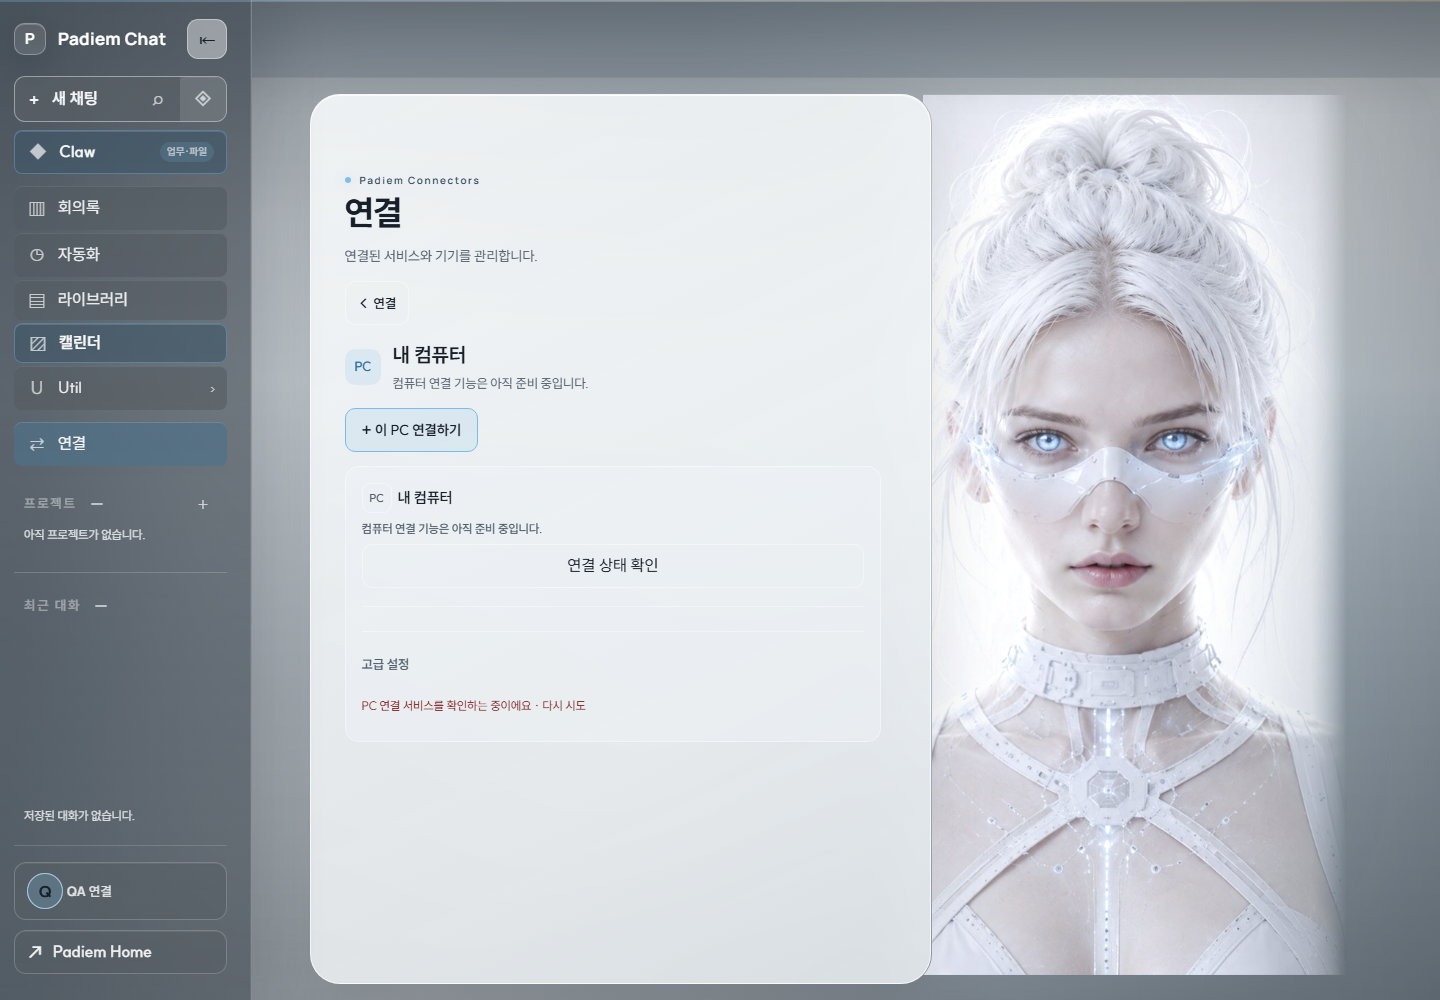
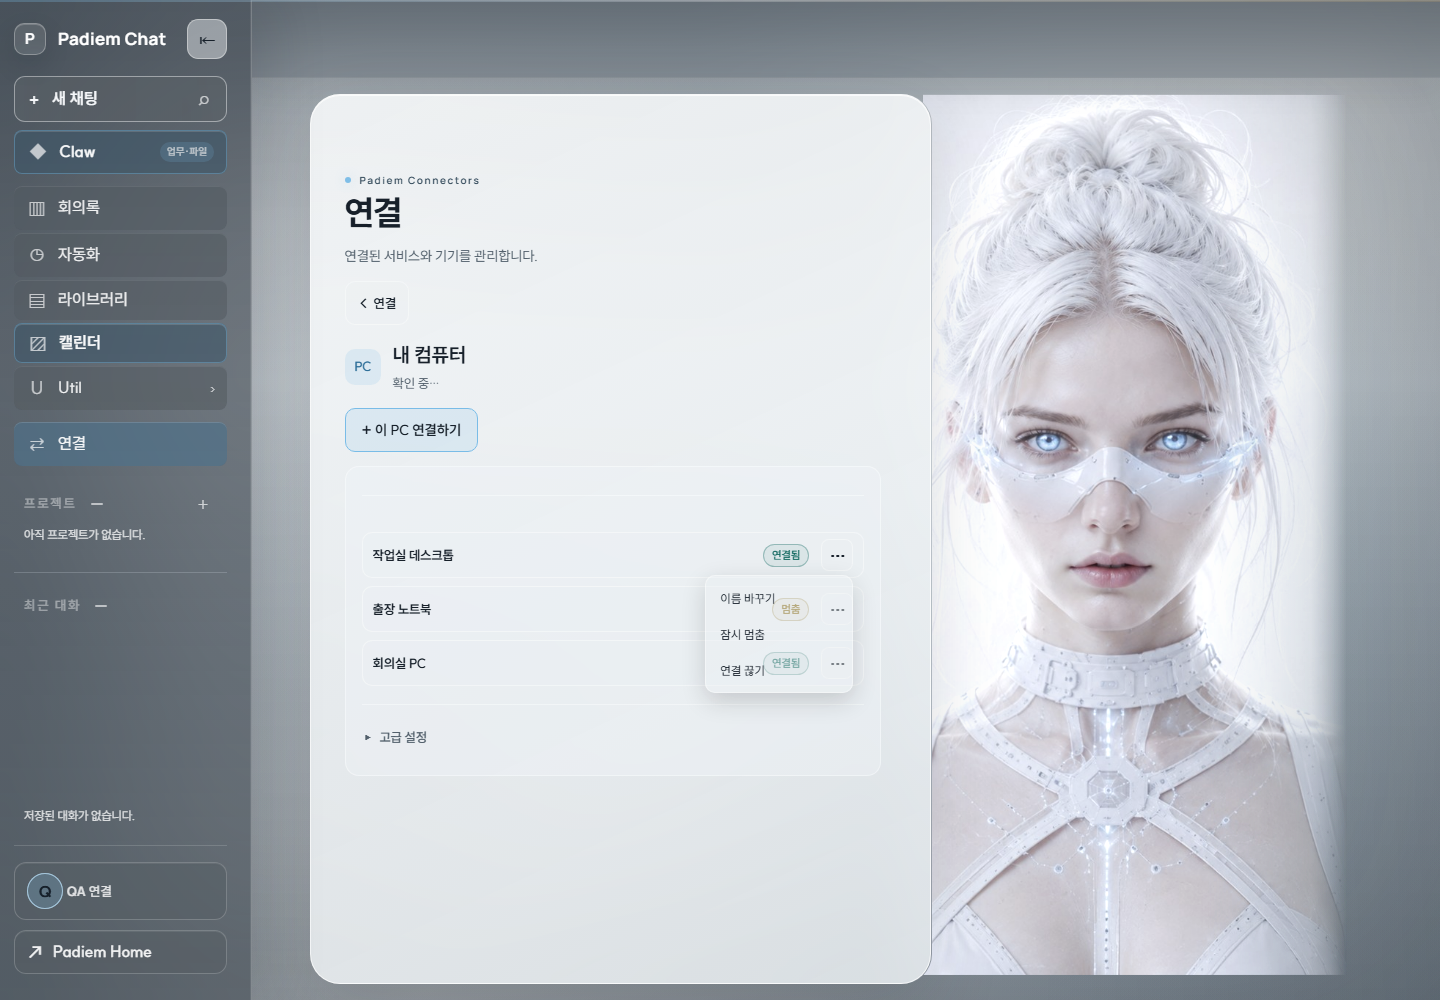
fix(connector): 타일은 4상태 어휘만·컴퓨터 페이지 중복 정리·390 설명 줄·⋯/배지 실측 (4/4) (#6169)
* fix(connector): 타일·전용 페이지는 4상태 어휘만, 컴퓨터 페이지 중복 머리·큰 버튼 정리, 390 설명 줄·⋯ 메뉴 픽스처 확인

* test(connector): 접힘 표식 고정을 실제 문자로

---------

diff --git a/apps/padiem-chat/static/connector-pages.js b/apps/padiem-chat/static/connector-pages.js
@@ -30,19 +30,23 @@
     return String(card.dataset.serviceMark || "");
   }
 
-  function statusSource(card) {
-    return card.querySelector("#clawComputerLiveStatus")
-      || card.querySelector("[data-connector-workspace]")
-      || card.querySelector(".capability-workspace")
-      || card.querySelector("[data-connector-support]")
-      || card.querySelector(".capability-read")
-      || card.querySelector(".capability-soon");
+  // Every tile and detail page speaks only the shared four-state vocabulary.
+  // The card's own dataset is the state owner; this map translates it and
+  // never copies a raw sentence (no “workspace”, no long server prose).
+  function stateOf(card) {
+    if (card.querySelector(".capability-soon")) return "soon";
+    const raw = String(card.dataset.connectorStatus || "").toLowerCase();
+    if (raw === "connected") return "connected";
+    if (raw === "not_connected" || raw === "disconnected") return "disconnected";
+    if (raw === "connecting" || raw === "loading" || raw === "preparing" || raw === "") return "checking";
+    return "failed";
   }
 
   function statusText(card) {
-    const node = statusSource(card);
-    if (!node || node.hidden) return "";
-    return node.textContent.trim();
+    const state = stateOf(card);
+    if (state === "soon") return "곧 지원돼요";
+    const vocab = window.PadiemConnectorVocabulary;
+    return vocab ? (vocab.status(state) || "") : "";
   }
 
   function syncTile(card) {
@@ -78,8 +82,9 @@
     const summary = document.createElement("summary");
     summary.className = "pc-connector-advanced-summary";
     summary.textContent = "고급 설정";
-    alternate.parentNode.insertBefore(advanced, alternate);
+    // Order: page head → connect → PC list → advanced at the very bottom.
     advanced.append(summary, alternate);
+    card.appendChild(advanced);
     card.dataset.advancedGrouped = "1";
   }
 
@@ -110,8 +115,28 @@
     const actions = byId("connectorDetailActions");
     const computer = card.dataset.connector === "computer" || card.id === "connectorComputerCard";
     if (actions) actions.hidden = !computer;
+    syncDetailRetry(card);
     if (computer) groupAdvanced(card);
     setHash("#connectors/" + connectorId(card));
+  }
+
+  function syncDetailRetry(card) {
+    let link = byId("connectorDetailRetry");
+    const failed = stateOf(card) === "failed";
+    if (!failed) { if (link) link.remove(); return; }
+    if (link) return;
+    const actions = byId("connectorDetailActions");
+    if (!actions) return;
+    link = document.createElement("button");
+    link.type = "button";
+    link.id = "connectorDetailRetry";
+    link.className = "connector-detail-retry";
+    link.textContent = "다시 확인";
+    link.addEventListener("click", () => {
+      const original = card.querySelector("#clawComputerDeviceStatusButton");
+      if (original) original.click();
+    });
+    actions.appendChild(link);
   }
 
   function closeDetail(keepHash) {
@@ -176,6 +201,7 @@
       const status = byId("connectorDetailStatus");
       const text = statusText(detailed.card);
       if (status && status.textContent !== text) status.textContent = text;
+      syncDetailRetry(detailed.card);
       return;
     }
     const view = byId(VIEW_ID);
@@ -183,7 +209,7 @@
   });
   const start = () => {
     const host = byId(VIEW_ID) || document.body;
-    observer.observe(host, { childList: true, subtree: true, characterData: true, attributes: true, attributeFilter: ["hidden"] });
+    observer.observe(host, { childList: true, subtree: true, characterData: true, attributes: true, attributeFilter: ["hidden", "data-connector-status"] });
     makeTiles();
     handleHash();
   };

diff --git a/apps/padiem-chat/static/connector-pages.css b/apps/padiem-chat/static/connector-pages.css
@@ -215,3 +215,62 @@
     align-items: flex-start;
   }
 }
+
+/* The computer page owns the head: the moved card contributes only its PC
+ * list and advanced lane, never a second title, status line or big button. */
+.connector-detail-body .capability-card::before,
+.connector-detail-body .capability-card > strong,
+.connector-detail-body .capability-card > .capability-workspace,
+.connector-detail-body .capability-card > .capability-read,
+.connector-detail-body .capability-card > .capability-read-state,
+.connector-detail-body #clawComputerDeviceStatusButton {
+  display: none !important;
+}
+
+.connector-detail-actions {
+  display: flex;
+  align-items: center;
+  gap: 10px;
+  flex-wrap: wrap;
+}
+
+.connector-detail-retry {
+  border: 0;
+  background: transparent;
+  color: var(--muted, #5b6672);
+  font: inherit;
+  font-size: 13px;
+  text-decoration: underline;
+  cursor: pointer;
+  min-height: 44px;
+}
+
+/* The advanced lane shows its fold state: ▸ closed, ▾ open, closed by default. */
+.pc-connector-advanced-summary::before {
+  content: "▸";
+  margin-right: 6px;
+}
+
+.pc-connector-advanced[open] > .pc-connector-advanced-summary::before {
+  content: "▾";
+}
+
+/* Phone widths: the Claw tile keeps its one-line description instead of
+ * hiding it, and the card grows to fit the name, the description and the
+ * switch without any of them sitting on another. */
+@media (max-width: 720px) {
+  .app-shell[data-state="claw"] .conversation .claw-home-card .claw-workspace-starter small {
+    display: block !important;
+    font-size: 10px;
+    line-height: 1.35;
+    opacity: .9;
+  }
+  .app-shell[data-state="claw"] .claw-workspace[data-view="general"] ~ .conversation .claw-home-card {
+    min-height: 186px;
+  }
+  .app-shell[data-state="claw"] .claw-workspace[data-view="general"] ~ .conversation .claw-home-card .starter span {
+    display: flex;
+    flex-direction: column;
+    gap: 2px;
+  }
+}

diff --git a/apps/padiem-chat/tests/test_connector_pages_261029.py b/apps/padiem-chat/tests/test_connector_pages_261029.py
@@ -33,10 +33,22 @@ def test_the_module_moves_the_card_instead_of_rebuilding_it():
     assert "/api/" not in PAGES
 
 
-def test_the_tile_reads_the_one_status_owner():
-    # Live writer first, server workspace state second, capability line last.
-    order = PAGES.index("#clawComputerLiveStatus")
-    assert order < PAGES.index("[data-connector-workspace]") < PAGES.index(".capability-read")
+def test_the_tile_speaks_only_the_shared_four_state_vocabulary():
+    # The card's dataset is the state owner; the tile maps it to the shared
+    # constant and never copies a raw server sentence (no “워크스페이스”).
+    assert 'card.dataset.connectorStatus' in PAGES
+    assert 'return "곧 지원돼요"' in PAGES
+    assert "워크스페이스" not in PAGES
+    for state in ('"connected"', '"not_connected"', '"connecting"', '"failed"'):
+        assert state in PAGES
+
+
+def test_the_computer_page_folds_the_card_head_and_offers_a_small_retry():
+    assert ".connector-detail-body .capability-card > strong" in CSS
+    assert ".connector-detail-body #clawComputerDeviceStatusButton" in CSS
+    assert "connectorDetailRetry" in PAGES
+    assert 'link.textContent = "다시 확인"' in PAGES
+    assert ('content: "%s"' % chr(0x25B8)) in CSS and ('content: "%s"' % chr(0x25BE)) in CSS
 
 
 def test_the_tile_keeps_one_line_and_the_page_owns_the_full_card():
